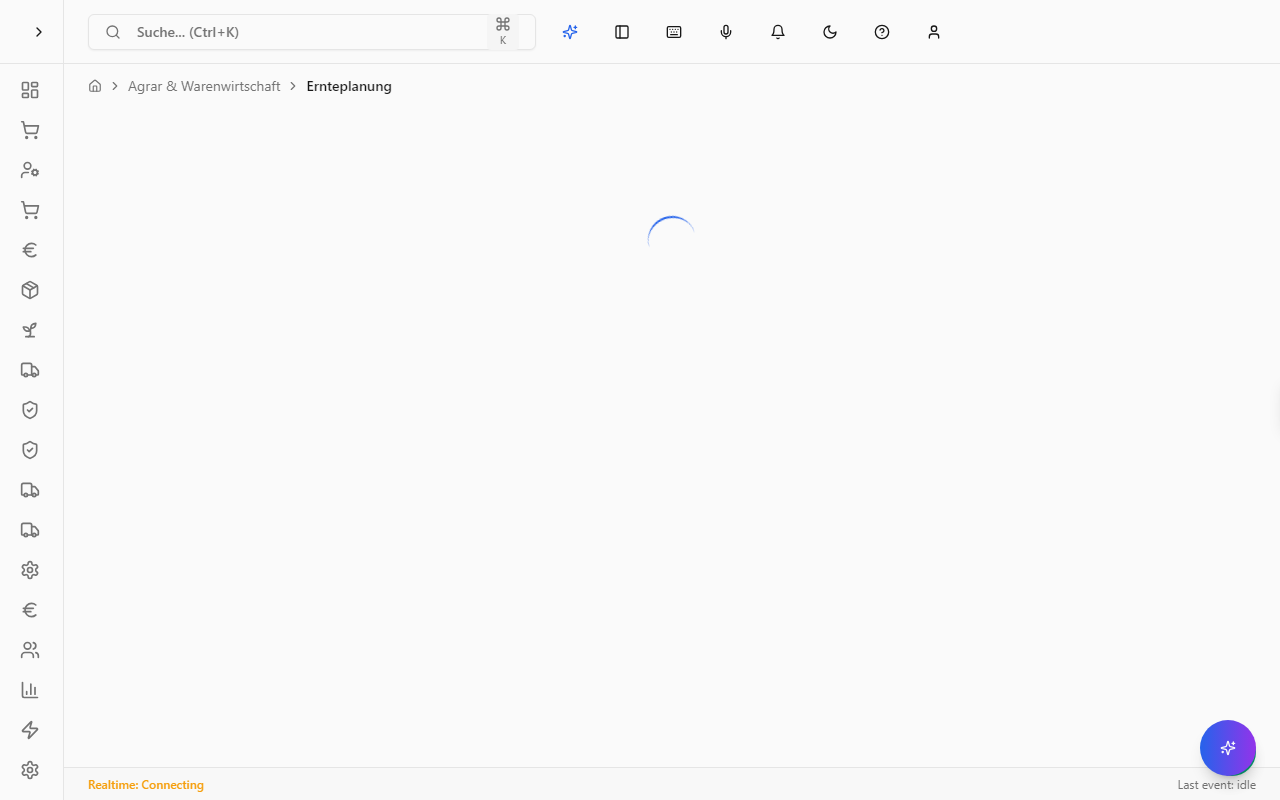
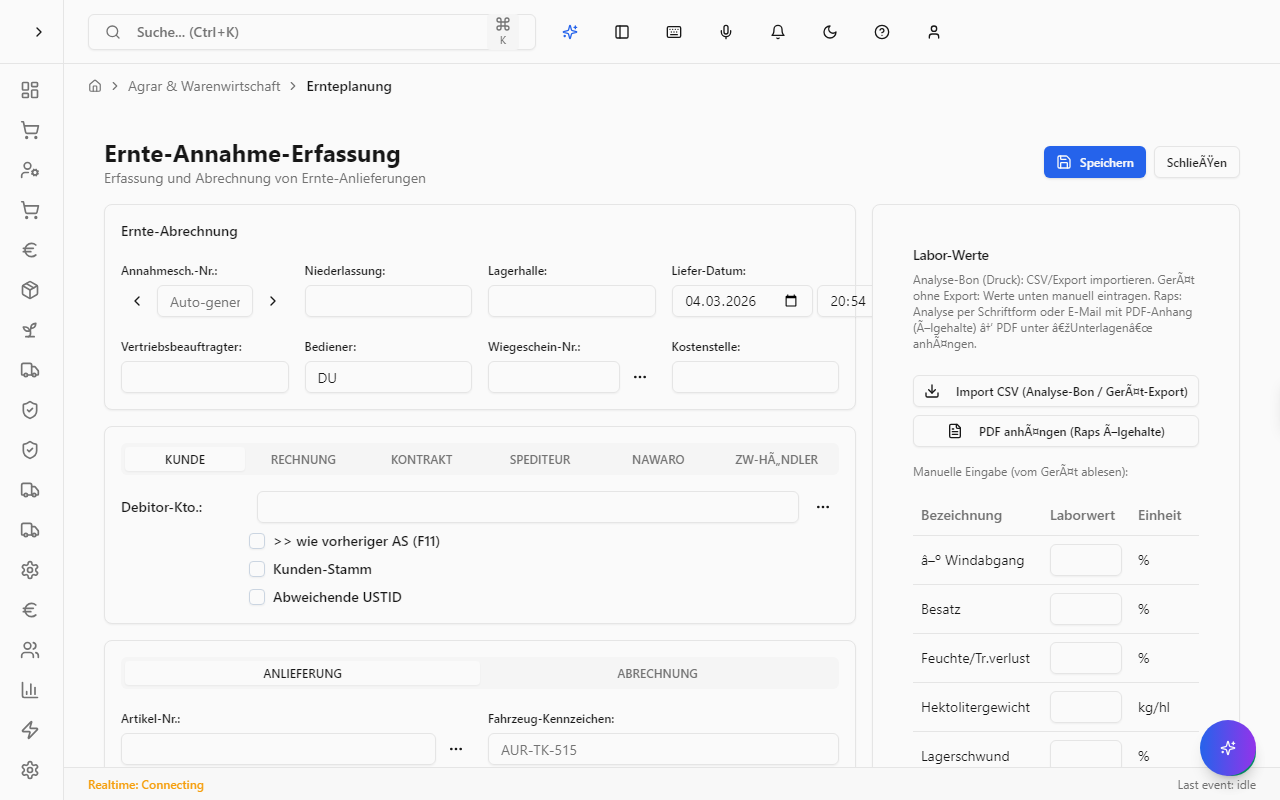
fix(screenshots): Dashboard Vollseite, Finance/Agrar auf Inhalt warten
- Dashboard: fullPage: true für gesamtes Dashboard
- Finance: warten auf "Offene Posten" + 3s (kein Loading-Screen)
- Agrar: warten auf h1 "Ernte-Annahme-Erfassung"
- Screenshots neu erzeugt (dashboard, finance, agrar)

Made-with: Cursor

diff --git a/packages/frontend-web/scripts/capture-readme-screenshots.ts b/packages/frontend-web/scripts/capture-readme-screenshots.ts
@@ -20,10 +20,29 @@ const HEADLESS = process.env.HEADLESS !== 'false'
 // From repo root: docs/screenshots (when run from packages/frontend-web, cwd is frontend-web)
 const OUTPUT_DIR = process.env.SCREENSHOTS_OUTPUT_DIR ?? path.resolve(process.cwd(), '../../docs/screenshots')
 
-const CAPTURES: { path: string; file: string }[] = [
-  { path: '/', file: 'dashboard.png' },
-  { path: '/finance/op-kreditoren', file: 'finance.png' },
-  { path: '/agrar/ernte-annahme-erfassung', file: 'agrar.png' },
+const CAPTURES: {
+  path: string
+  file: string
+  /** Selector or text to wait for before screenshot (so we don't capture loading state) */
+  waitFor?: string
+  /** Extra ms after navigation before waiting for content */
+  waitAfterNav?: number
+  /** Capture full scrollable page (e.g. entire dashboard) */
+  fullPage?: boolean
+}[] = [
+  { path: '/', file: 'dashboard.png', waitAfterNav: 2000, fullPage: true },
+  {
+    path: '/finance/op-kreditoren',
+    file: 'finance.png',
+    waitFor: 'text=Offene Posten',
+    waitAfterNav: 3000,
+  },
+  {
+    path: '/agrar/ernte-annahme-erfassung',
+    file: 'agrar.png',
+    waitFor: "h1:has-text('Ernte-Annahme-Erfassung')",
+    waitAfterNav: 1000,
+  },
 ]
 
 async function main() {
@@ -49,14 +68,20 @@ async function main() {
 
   const page = await context.newPage()
 
-  for (const { path: routePath, file } of CAPTURES) {
+  const contentTimeout = 25_000
+
+  for (const { path: routePath, file, waitFor, waitAfterNav = 1500, fullPage = false } of CAPTURES) {
     const url = `${BASE_URL}${routePath}`
     console.log(`Opening ${url} -> ${file}`)
     try {
-      await page.goto(url, { waitUntil: 'domcontentloaded', timeout: 25_000 })
-      await page.waitForTimeout(1500)
+      await page.goto(url, { waitUntil: 'domcontentloaded', timeout: contentTimeout })
+      await page.waitForTimeout(waitAfterNav)
+      if (waitFor) {
+        await page.locator(waitFor).first().waitFor({ state: 'visible', timeout: contentTimeout })
+        await page.waitForTimeout(500)
+      }
       const outPath = path.join(OUTPUT_DIR, file)
-      await page.screenshot({ path: outPath, fullPage: false })
+      await page.screenshot({ path: outPath, fullPage })
       console.log(`  -> ${outPath}`)
     } catch (e) {
       console.error(`  Failed: ${e}`)
